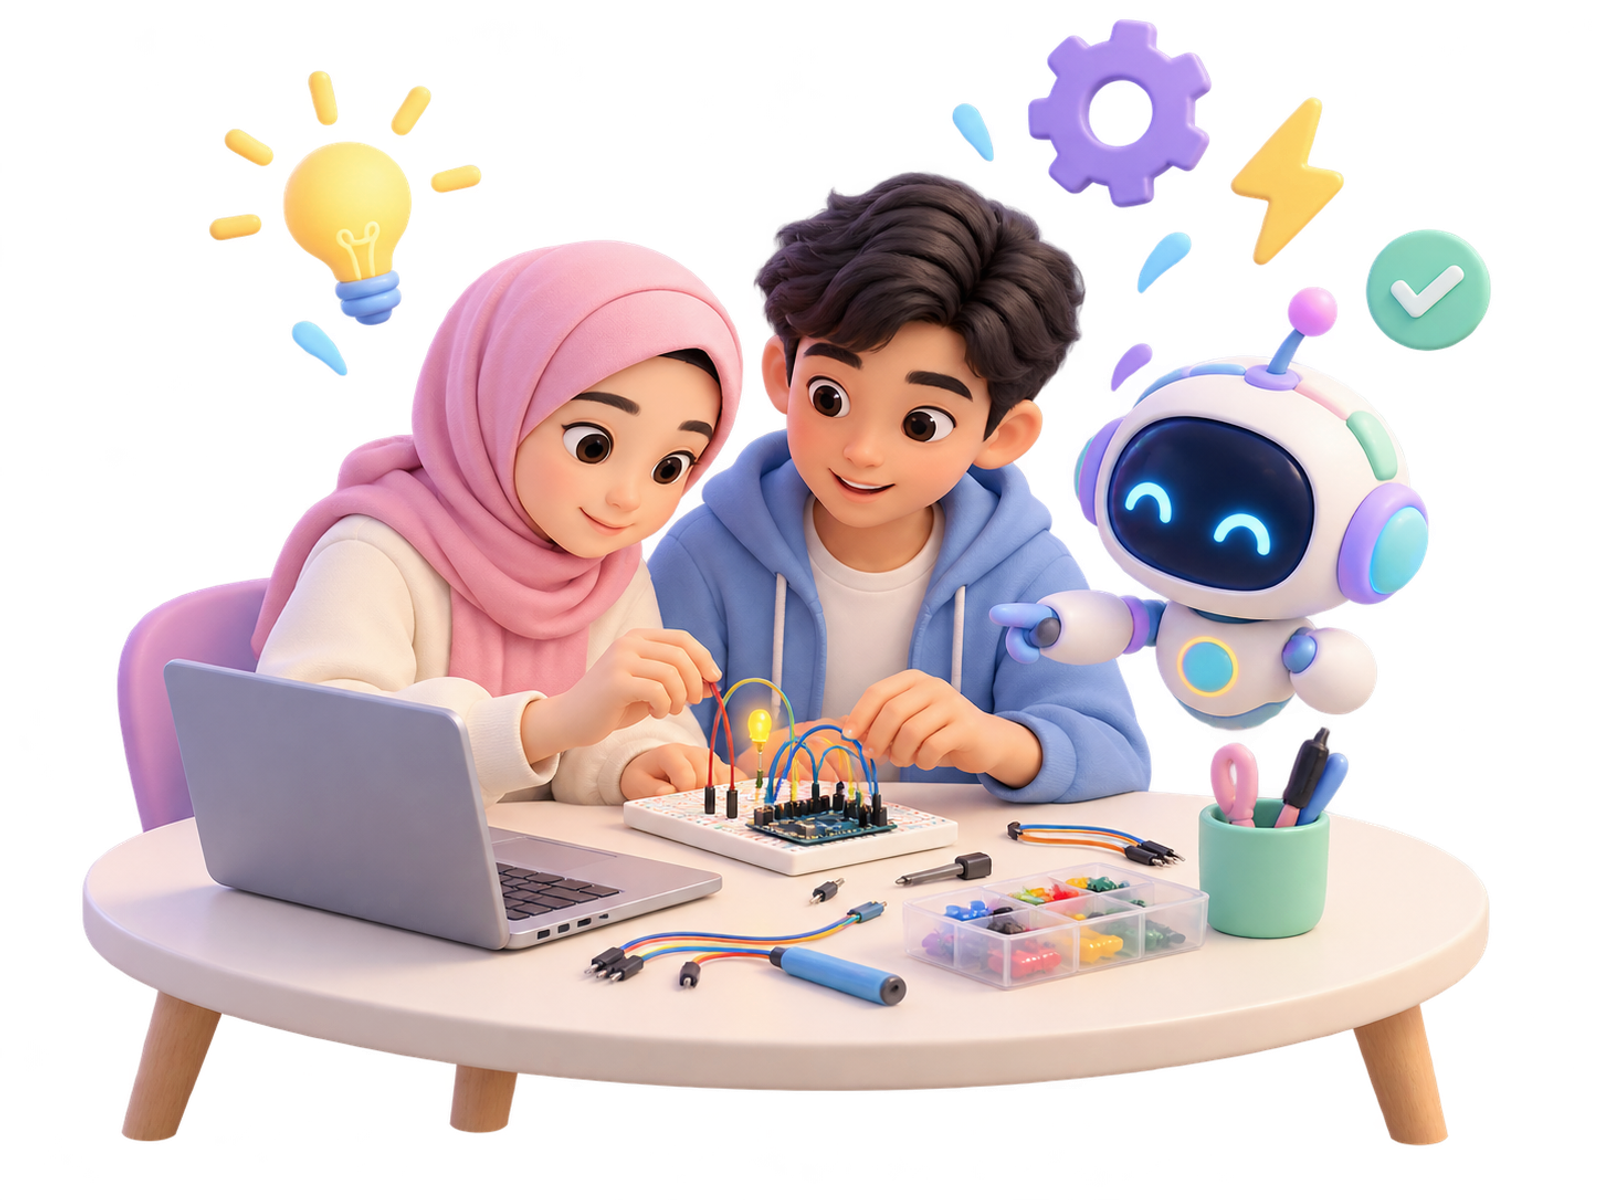
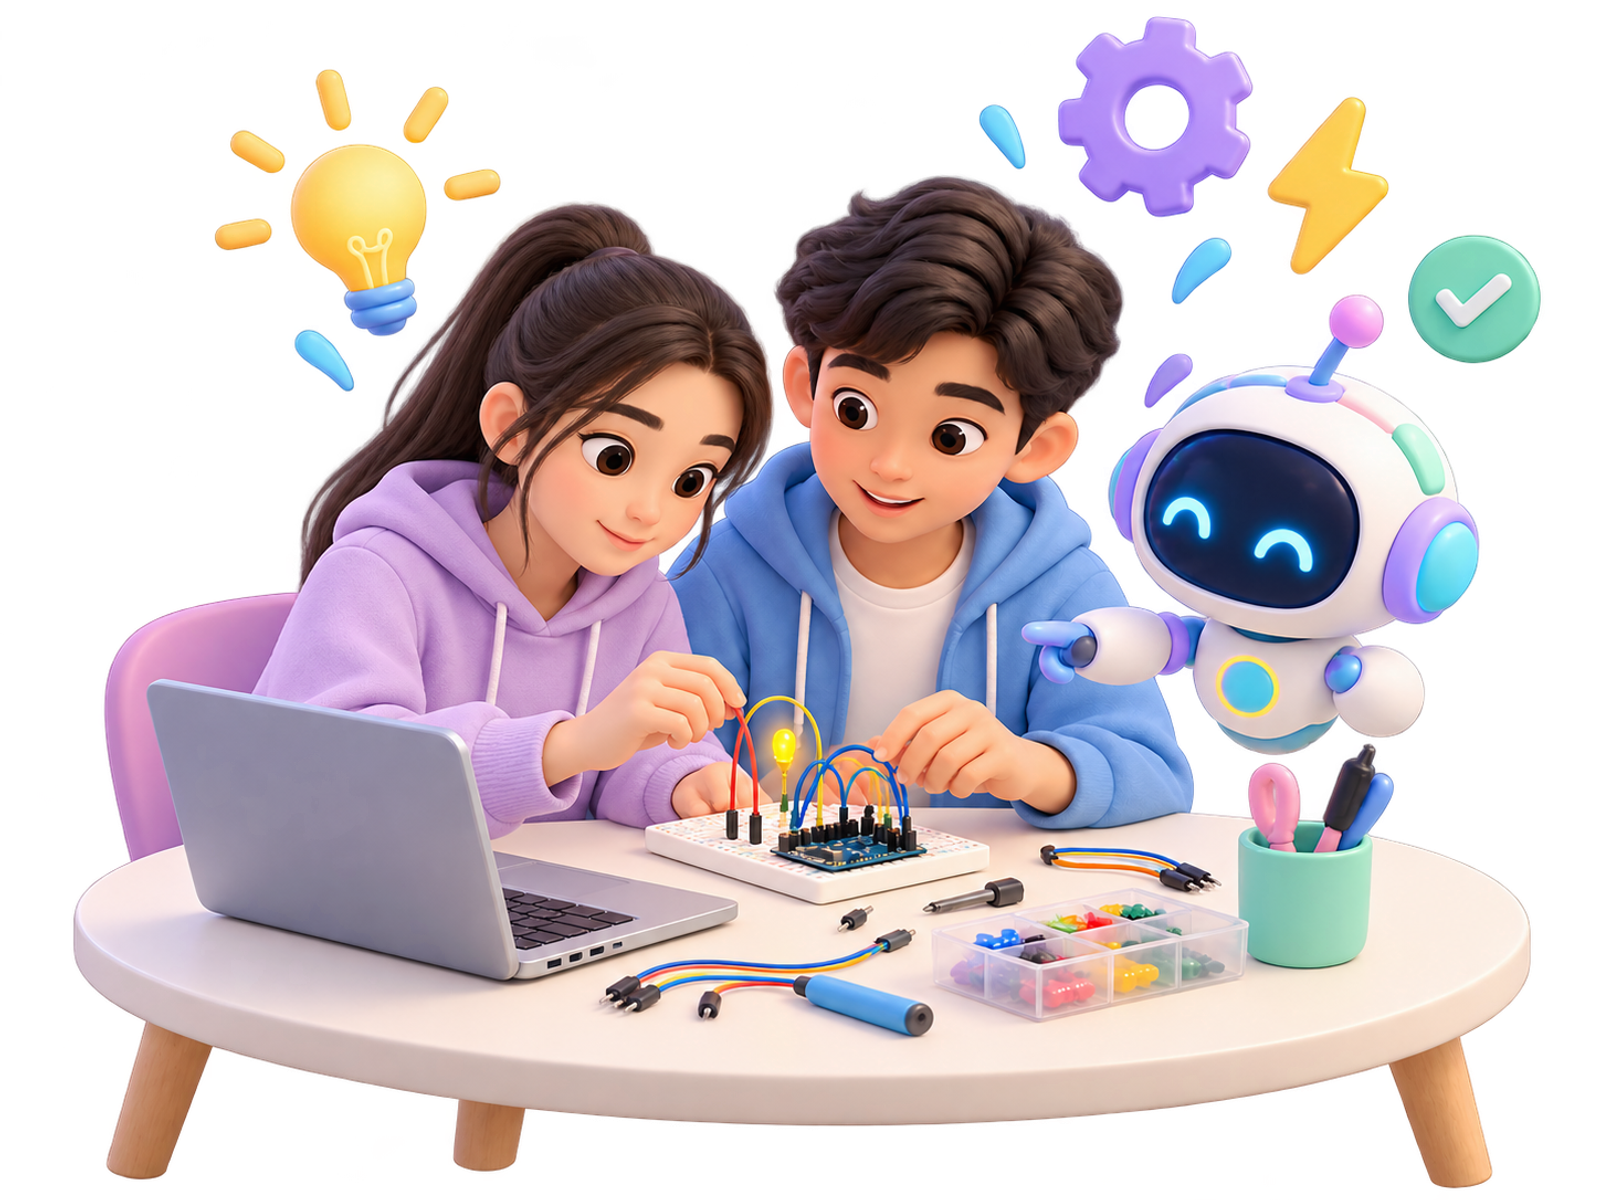
Platforma rasmlaridagi qahramonlarni neytrallashtirish

diff --git a/components/app/auth-card.tsx b/components/app/auth-card.tsx
@@ -19,7 +19,7 @@ export function AuthCard({ mode }: { mode: "login" | "signup" }) {
       <div className="relative hidden items-center justify-center overflow-hidden bg-gradient-to-br from-[#e6f3fe] via-[#efeaff] to-[#fde9f3] p-12 lg:flex">
         <Blobs variant="corner" />
         <div className="w-full max-w-md">
-          <Illustration src="/images/auth/welcome.png" alt="Qo‘l silkitib kutib olayotgan o‘quvchi va AI robot" width={1000} height={1200} tone="lavender" icon={Hand} label="Kirish illyustratsiyasi (TASK-24)" />
+          <Illustration src="/images/auth/welcome.png" alt="Qo‘l silkitib kutib olayotgan AI robot" width={1000} height={1200} tone="lavender" icon={Hand} label="Kirish illyustratsiyasi (TASK-24)" />
           <p className="mt-6 text-center font-heading text-2xl font-bold text-ink">O‘rgan, sinab ko‘r, yaratuvchiga aylan</p>
         </div>
       </div>

diff --git a/CODEX_TASK_NEYTRAL_QAHRAMONLAR.md b/CODEX_TASK_NEYTRAL_QAHRAMONLAR.md
@@ -1,0 +1,128 @@
+# Codex uchun task — rasmlardagi qahramonlarni neytral qilish
+
+## Nima uchun
+
+Mijoz fikri: platforma muhandislik va STEM o‘qitadi, diniy ta’lim yoki arab tili emas. Rasmlarda doim hijobli qiz turgani noto‘g‘ri taassurot qoldirishi mumkin ("bu diniy platformami?"). Shuning uchun qahramonlar **dunyoviy va neytral** bo‘lishi kerak: o‘g‘il bola, ro‘molsiz qiz yoki AI robot.
+
+## Asosiy qoidalar
+
+1. **Fayl nomlari va yo‘llarini o‘zgartirmang.** Faqat quyidagi 5 ta rasmni qayta yarating va eski faylning ustiga yozing (`.png` + `.webp`).
+2. **Uslub aynan avvalgidek qolsin.** Joriy `public/images/hero/hero-student-robot.png` ni *style reference* sifatida ishlating: o‘sha 3D-clay uslub, pastel palitra, yorug‘lik va robot dizayni. Faqat odamlar o‘zgaradi.
+3. **Robot o‘zgarmaydi.** Oq korpusli, ko‘k ekran-yuzli, lavanda quloqchinli AI robot barcha rasmlarda bir xil qolsin. U brendning maskoti.
+4. **Odamlarga qo‘yiladigan talablar:**
+   - Bosh kiyimi yo‘q: ro‘mol, hijob, do‘ppi yoki diniy belgi bo‘lmasin.
+   - Qizlar: ochiq sochli yoki sochi orqaga yig‘ilgan (ot dumi), kamtarona, zamonaviy kiyimda: hudi, sviter, futbolka ustidan ko‘ylak, uzun shim.
+   - O‘g‘il bolalar: hudi, futbolka, sviter.
+   - 13–18 yosh, Markaziy Osiyolik ko‘rinish, xushchaqchiq.
+   - Ochiq-sochiq kiyim bo‘lmasin (shortik, kalta yeng ustki kiyim).
+   - Bitta rasmda ikki jins bo‘lsa, ular teng va hamkor ko‘rinsin: ikkalasi ham ishlayapti, hech biri faqat tomoshabin emas.
+5. Rasmlarda matn, harf, raqam yoki logo bo‘lmasin.
+6. Shaffof deb belgilangan rasmlar haqiqiy alpha kanalga ega bo‘lsin.
+7. WebP: `cwebp -q 85 file.png -o file.webp`.
+8. **Eski rasmlarni o‘chirmang.** Yangilarini yaratishdan oldin eskilarini `../image-archive/v1-hijob/` papkasiga (loyiha papkasidan tashqariga) shu tuzilma bilan nusxalang.
+
+### STYLE bloki (avvalgidek)
+
+```
+Style: soft 3D clay illustration, rounded friendly shapes, matte materials,
+pastel palette — sky blue #3BA7F5, lavender #9B8AFB, blush pink #F5A3C7,
+mint #5FD3B0, warm yellow #FFC96B, warm off-white #FBFAF7 —
+soft diffused studio lighting, gentle ambient-occlusion shadows, clean composition,
+calm and encouraging educational mood, high detail, no text, no letters, no numbers,
+no logos, no watermark.
+```
+
+### NEUTRAL bloki (odam bor har bir promptga qo‘shing)
+
+```
+Secular, modern look: no headscarf, no hijab, no hat, no religious symbols or clothing.
+Modest casual clothes (hoodies, sweaters, long trousers).
+```
+
+---
+
+## TASK-N1 — Hero (bosh sahifa)
+- **Fayl:** `public/images/hero/hero-student-robot.png` · **1600×1200** · **shaffof**
+- **Kompozitsiya:** avvalgidek: dumaloq stol, noutbuk, breadboard, yonib turgan LED, o‘ng tomonda robot, atrofida suzib yurgan ikonkalar (lampochka, tishli g‘ildirak, chaqmoq, check).
+- **Prompt:**
+  ```
+  A teenage boy and a teenage girl (Central Asian, about 15 years old) sitting together at a
+  rounded white desk with an open laptop, building a small electronics project: a microcontroller
+  board on a breadboard, colorful jumper wires and a glowing LED. The girl has dark hair tied in a
+  ponytail and wears a soft lavender hoodie; the boy has short dark curly hair and a sky-blue hoodie.
+  Both are actively working with their hands and smiling. Next to them floats the small friendly
+  round white AI robot with a dark glowing face screen and lavender headphones, pointing helpfully
+  at the circuit. Small floating icons: a light bulb, a gear, a lightning bolt, a check mark.
+  Three-quarter view, centered, isolated object group.
+  {NEUTRAL} {STYLE}
+  ```
+
+## TASK-N2 — OG banner (ijtimoiy tarmoqlarda ulashish)
+- **Fayl:** `public/og-image.png` · **1200×630** · **to‘liq fon**
+- **Prompt:**
+  ```
+  Wide banner: on the right side, the same scene as the new hero image (teenage boy and girl
+  with ponytail, laptop, breadboard circuit, friendly AI robot) in the same style; left 55% is
+  empty soft cream #FBFAF7 space with blurred pastel blobs of sky blue, lavender and pink
+  (space reserved for text). {NEUTRAL} {STYLE}
+  ```
+- Yangi hero tayyor bo‘lgach, uni reference qilib yarating: qahramonlar aynan bir xil bo‘lsin.
+
+## TASK-N3 — "Muammo" bo‘limi
+- **Fayl:** `public/images/problem/curious-student.png` · **900×900** · **shaffof**
+- **Qahramon:** o‘g‘il bola (heroda ikkalasi bor, bu yerda muvozanat uchun o‘g‘il bola).
+- **Prompt:**
+  ```
+  A teenage boy (Central Asian, about 15, short dark hair, mint-green sweater) sitting at a small
+  desk with a stack of books, looking at a generic monitor that shows an abstract complex circuit
+  diagram, hand on chin, thoughtful and curious (not sad), several soft floating question marks
+  around his head. The small AI robot peeks from the side of the monitor.
+  {NEUTRAL} {STYLE}
+  ```
+
+## TASK-N4 — Maktablar uchun (B2B)
+- **Fayl:** `public/images/schools/teacher-dashboard.png` · **1400×1000** · **to‘liq fon** (krem `#FBFAF7` → och ko‘k gradient)
+- **Prompt:**
+  ```
+  A bright friendly classroom: a young teacher (woman with shoulder-length hair in a neat
+  blazer, OR a young man in a sweater) standing next to a large wall screen showing abstract
+  progress charts and colorful bars (no text). A mixed group of teenage boys and girls at desks
+  using tablets, small electronics kits on desks, girls with ponytails or loose hair.
+  The small AI robot stands on the teacher's desk. Wide view, cozy, plants by the window.
+  {NEUTRAL} {STYLE}
+  ```
+- Ikkala o‘qituvchi variantini yarating: `teacher-dashboard-a.png` (ayol) va `teacher-dashboard-b.png` (erkak). Asosiy faylga `-a` ni nusxalang.
+
+## TASK-N5 — Kirish / Ro‘yxatdan o‘tish
+- **Fayl:** `public/images/auth/welcome.png` · **1000×1200** (vertikal) · **shaffof**
+- **Qahramon:** faqat **AI robot**, odam yo‘q. Robot brend maskoti bo‘ladi, shunda kirish sahifasi har qanday foydalanuvchiga (o‘quvchi, o‘qituvchi, ota-ona) mos keladi.
+- **Prompt:**
+  ```
+  The friendly round white AI robot (same design as hero: dark glowing face screen with happy
+  oval eyes, lavender headphones, small antenna with a glowing tip) standing in full height,
+  cheerfully waving hello with one hand and holding a glowing golden key in the other.
+  Behind it, a small floating rounded door made of soft light opening into a pastel sky with
+  clouds; floating sparkles, a tiny light bulb and a gear around. Welcoming mood, vertical
+  composition. {STYLE}
+  ```
+- Kodda alt matnni yangilang: `components/app/auth-card.tsx` faylida `alt="Qo‘l silkitib kutib olayotgan o‘quvchi va AI robot"` → `alt="Qo‘l silkitib kutib olayotgan AI robot"`.
+
+---
+
+## Qo‘shimcha
+- `public/images/ALT.md` dagi 5 ta faylning alt matnlarini yangilang (o‘zbekcha, rasmni aniq tasvirlasin).
+- `public/images/generation-manifest.json` ga yangi promptlarni yozing.
+- Jamoa avatarlari (`team/*.png`) **o‘zgarmaydi**: hijobsiz `-a` variantlar allaqachon ishlatilgan.
+
+## Tekshiruv ro‘yxati
+- [ ] 5 ta rasm qayta yaratilgan, nomlari va o‘lchamlari avvalgidek
+- [ ] Hech bir rasmda ro‘mol, hijob yoki diniy belgi yo‘q
+- [ ] Robot barcha rasmlarda bir xil dizaynda
+- [ ] Hero va OG bannerdagi qahramonlar bir xil
+- [ ] Uslub boshqa rasmlar (features, courses, steps) bilan mos
+- [ ] Shaffof rasmlarda alpha kanal bor; `.webp` versiyalar yangilangan
+- [ ] Eski rasmlar `../image-archive/v1-hijob/` da saqlangan
+- [ ] `auth-card.tsx` dagi alt matn yangilangan, `ALT.md` yangilangan
+- [ ] `npx tsc --noEmit` xatosiz
+
+Tugagach, Claude Code saytni build qiladi, Vercel'ga deploy qiladi va A4 PDF'ni yangi rasmlar bilan qayta yaratadi.

diff --git a/public/images/ALT.md b/public/images/ALT.md
@@ -1,6 +1,6 @@
 # Rasmlarning o‘zbekcha alt matnlari
 
-`public/images/hero/hero-student-robot.png` — Noutbuk yonida elektronika loyihasini yaratayotgan ikki o‘quvchi va do‘stona AI robot.
+`public/images/hero/hero-student-robot.png` — Noutbuk yonida elektronika loyihasini birga yaratayotgan o‘g‘il va sochi yig‘ilgan qiz, yonida do‘stona AI robot.
 `public/images/features/ai-tutor.png` — Shaxsiy o‘quv xaritasini ushlab turgan AI ustoz roboti.
 `public/images/features/video-lessons.png` — Videodars va mini test tasvirlangan planshet.
 `public/images/features/virtual-lab.png` — LED chirog‘i yonib turgan virtual elektronika laboratoriyasi.
@@ -9,8 +9,8 @@
 `public/images/steps/organ.png` — Sahifalari ustida bilim chirog‘i porlayotgan ochiq kitob.
 `public/images/steps/sinab-kor.png` — Maket platasiga sim ulab, LED chirog‘ini yoqayotgan o‘quvchi qo‘llari.
 `public/images/steps/yarat.png` — Taglik ustida turgan o‘quvchi yasagan g‘ildirakli robot.
-`public/images/problem/curious-student.png` — Murakkab elektr sxemasini ko‘rib o‘yga tolgan o‘quvchi.
-`public/images/schools/teacher-dashboard.png` — O‘quvchilar natijalarini kuzatayotgan o‘qituvchi va yorug‘ texnologiya sinfxonasi.
+`public/images/problem/curious-student.png` — Elektr sxemasini qiziqib o‘rganayotgan mint rang sviterli o‘g‘il bola va AI robot.
+`public/images/schools/teacher-dashboard.png` — Ayol o‘qituvchi, elektronika loyihalari ustida ishlayotgan o‘g‘il-qizlar va AI robot tasvirlangan sinfxona.
 `public/images/courses/elektronika.png` — Rezistor, kondensator, LED va multimetr.
 `public/images/courses/arduino.png` — Servo motor va LED tasmasiga ulangan mikrokontroller platasi.
 `public/images/courses/robototexnika.png` — Robot qo‘li bilan kubikni ko‘tarayotgan g‘ildirakli robot.
@@ -30,11 +30,13 @@
 `public/images/app/badges/test-champion.png` — Test chempioni uchun yulduzli medal.
 `public/images/app/badges/project-author.png` — Loyiha muallifi uchun robotli medal.
 `public/images/app/badges/explorer.png` — Izlanuvchi uchun lupali medal.
-`public/images/auth/welcome.png` — Salom berayotgan o‘quvchi va nurli kalit ushlagan AI robot.
+`public/images/auth/welcome.png` — Nurli eshik yonida qo‘l silkitib, oltin kalit ushlab turgan AI robot.
 `public/images/empty/no-courses.png` — Bo‘sh karton quti ichiga qiziqib qarayotgan AI robot.
 `public/images/empty/no-results.png` — Lupa bilan natijalarni qidirayotgan AI robot.
-`public/og-image.png` — Muhandis AI uchun o‘quvchilar va robot tasvirlangan ulashish banneri.
+`public/og-image.png` — Muhandis AI ulashish banneri: elektronika loyihasini yaratayotgan o‘g‘il, sochi yig‘ilgan qiz va AI robot.
 `public/images/brand/logo-mark.png` — Muhandis AI: pastel rangli fon ustidagi oq elektron zanjir belgisi.
 `public/images/team/zilola.png` — Loyiha menejeri Zilolaning stilizatsiyalangan avatari.
 `public/images/team/rayxona.png` — Marketolog Rayxonaning stilizatsiyalangan avatari.
 `public/images/team/durdona.png` — Dasturchi Durdonaning stilizatsiyalangan avatari.
+`public/images/schools/teacher-dashboard-a.png` — Ayol o‘qituvchi, elektronika loyihalari ustida ishlayotgan o‘g‘il-qizlar va AI robot tasvirlangan sinfxona.
+`public/images/schools/teacher-dashboard-b.png` — Erkak o‘qituvchi, elektronika loyihalari ustida ishlayotgan o‘g‘il-qizlar va AI robot tasvirlangan sinfxona.

diff --git a/public/images/INVENTORY.md b/public/images/INVENTORY.md
@@ -2,8 +2,8 @@
 
 | Fayl | O‘lcham | Alpha | Bayt |
 |---|---|---|---|
-| public/images/hero/hero-student-robot.png | 1600×1200 | ha | 2567224 |
-| public/images/hero/hero-student-robot.webp | 1600×1200 | ha | 257922 |
+| public/images/hero/hero-student-robot.png | 1600×1200 | ha | 2721663 |
+| public/images/hero/hero-student-robot.webp | 1600×1200 | ha | 274098 |
 | public/images/features/ai-tutor.png | 800×800 | ha | 686933 |
 | public/images/features/ai-tutor.webp | 800×800 | ha | 74524 |
 | public/images/features/video-lessons.png | 800×800 | ha | 630762 |
@@ -20,10 +20,10 @@
 | public/images/steps/sinab-kor.webp | 600×600 | ha | 49352 |
 | public/images/steps/yarat.png | 600×600 | ha | 394507 |
 | public/images/steps/yarat.webp | 600×600 | ha | 72318 |
-| public/images/problem/curious-student.png | 900×900 | ha | 1174451 |
-| public/images/problem/curious-student.webp | 900×900 | ha | 134000 |
-| public/images/schools/teacher-dashboard.png | 1400×1000 | yo‘q | 2767660 |
-| public/images/schools/teacher-dashboard.webp | 1400×1000 | yo‘q | 133808 |
+| public/images/problem/curious-student.png | 900×900 | ha | 1138255 |
+| public/images/problem/curious-student.webp | 900×900 | ha | 127444 |
+| public/images/schools/teacher-dashboard.png | 1400×1000 | yo‘q | 3035385 |
+| public/images/schools/teacher-dashboard.webp | 1400×1000 | yo‘q | 170710 |
 | public/images/courses/elektronika.png | 1200×750 | yo‘q | 1220171 |
 | public/images/courses/elektronika.webp | 1200×750 | yo‘q | 59724 |
 | public/images/courses/arduino.png | 1200×750 | yo‘q | 1227503 |
@@ -62,14 +62,14 @@
 | public/images/app/badges/project-author.webp | 256×256 | ha | 13752 |
 | public/images/app/badges/explorer.png | 256×256 | ha | 81221 |
 | public/images/app/badges/explorer.webp | 256×256 | ha | 12684 |
-| public/images/auth/welcome.png | 1000×1200 | ha | 1663921 |
-| public/images/auth/welcome.webp | 1000×1200 | ha | 185314 |
+| public/images/auth/welcome.png | 1000×1200 | ha | 1452200 |
+| public/images/auth/welcome.webp | 1000×1200 | ha | 176224 |
 | public/images/empty/no-courses.png | 500×500 | ha | 254067 |
 | public/images/empty/no-courses.webp | 500×500 | ha | 27166 |
 | public/images/empty/no-results.png | 500×500 | ha | 228853 |
 | public/images/empty/no-results.webp | 500×500 | ha | 48992 |
-| public/og-image.png | 1200×630 | yo‘q | 1175138 |
-| public/og-image.webp | 1200×630 | yo‘q | 49576 |
+| public/og-image.png | 1200×630 | yo‘q | 1047524 |
+| public/og-image.webp | 1200×630 | yo‘q | 40252 |
 | public/images/brand/logo-mark.png | 512×512 | ha | 25487 |
 | public/images/brand/logo-mark.webp | 512×512 | ha | 8334 |
 | public/images/team/zilola.png | 512×512 | yo‘q | 416030 |
@@ -78,3 +78,7 @@
 | public/images/team/rayxona.webp | 512×512 | yo‘q | 20772 |
 | public/images/team/durdona.png | 512×512 | yo‘q | 407734 |
 | public/images/team/durdona.webp | 512×512 | yo‘q | 18756 |
+| public/images/schools/teacher-dashboard-a.png | 1400×1000 | yo‘q | 3035385 |
+| public/images/schools/teacher-dashboard-a.webp | 1400×1000 | yo‘q | 170710 |
+| public/images/schools/teacher-dashboard-b.png | 1400×1000 | yo‘q | 3044459 |
+| public/images/schools/teacher-dashboard-b.webp | 1400×1000 | yo‘q | 163838 |

diff --git a/CODEX_IMAGE_TASKS.md b/CODEX_IMAGE_TASKS.md
@@ -8,7 +8,7 @@ Bu fayl Codex (yoki boshqa image-gen agent) uchun. Sayt kodi tayyor: har bir ras
 2. Format: **PNG**. "Shaffof" deb belgilangan rasmlar — alpha kanal bilan, fonsiz (kerak bo‘lsa background removal qiling). Qolganlari — to‘liq fonli.
 3. Har bir PNG’dan keyin WebP versiya ham yarating: `cwebp -q 85 file.png -o file.webp` (bir xil papkada, bir xil nom). Kod hozircha `.png` ni ishlatadi.
 4. **Rasmlarda hech qanday matn, harf, raqam, logo yoki brend belgisi bo‘lmasin** (YouTube, Arduino logosi va h.k. ham yo‘q). Matnni sayt o‘zi qo‘shadi.
-5. Odamlar: 13–18 yoshli Markaziy Osiyolik o‘smirlar, xushmuomala, kamtarona kiyim (shortik/ochiq kiyim yo‘q). Qizlar va o‘g‘il bolalar teng ko‘rinsin. Qo‘llar va barmoqlar to‘g‘ri chizilganini tekshiring.
+5. Odamlar: 13–18 yoshli Markaziy Osiyolik o‘smirlar, xushmuomala, kamtarona kiyim (shortik/ochiq kiyim yo‘q). Qizlar va o‘g‘il bolalar teng ko‘rinsin. **Dunyoviy, neytral ko‘rinish: ro‘mol, hijob yoki diniy belgilar yo‘q** (mijoz talabi, batafsil: `CODEX_TASK_NEYTRAL_QAHRAMONLAR.md`). Qo‘llar va barmoqlar to‘g‘ri chizilganini tekshiring.
 6. Har bir rasm uchun o‘zbekcha `alt` matnni `public/images/ALT.md` ga yozing (format: `` `yo‘l` — alt matn ``).
 7. Tugagach, `public/images` ichidagi barcha fayllar ro‘yxatini va o‘lchamlarini (`sips -g pixelWidth -g pixelHeight` yoki `file`) tekshirib chiqing.
 
